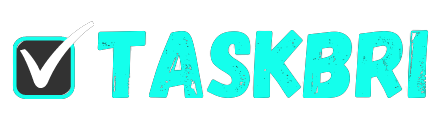
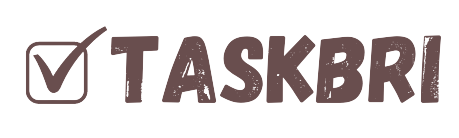
Color scheme of entire app is changed

diff --git a/screens/TaskListScreen.tsx b/screens/TaskListScreen.tsx
@@ -176,11 +176,15 @@ export default function TaskListScreen() {
 
   return (
     
-    <View style={styles.container}>
+    <View style={[styles.container,{
+      opacity: modalVisible || addUserModal ? 0.4 : 1
+    }]}>
       {/* title of the project */}
       
       {loading && <ActivityIndicator size="large" color={Colors[colorScheme].tint} style={{padding: 50}}/>}
-      <Text style={styles.title}>{title}</Text>
+      <Text style={[styles.title,{
+        color: Colors[colorScheme].text
+      }]}>{title}</Text>
 
       {/* collaborators avatars */}
       { users.length>1 ?
@@ -195,7 +199,7 @@ export default function TaskListScreen() {
           ListHeaderComponent={
             <Pressable 
               style={[styles.peopleIcon,{
-                backgroundColor: Colors[colorScheme].seperator,
+                backgroundColor: Colors[colorScheme].background,
                 borderColor: Colors[colorScheme].tint
             }]}
               onPress={resetAddUserModal}
@@ -210,7 +214,7 @@ export default function TaskListScreen() {
                 {/* number of users */}
                 <Text  
                   style={[styles.numberOfUsersText,{
-                    color: Colors[colorScheme].seperator,
+                    color: Colors[colorScheme].background,
                       }]}
                 >
                   {users.length}
@@ -227,7 +231,7 @@ export default function TaskListScreen() {
       (
         <Pressable 
           style={[styles.peopleIcon,{
-            backgroundColor: Colors[colorScheme].seperator,
+            backgroundColor: Colors[colorScheme].background,
             borderColor: Colors[colorScheme].tint
             }]}
           onPress={resetAddUserModal}

diff --git a/components/UIElements/UIAvatar.tsx b/components/UIElements/UIAvatar.tsx
@@ -93,7 +93,10 @@ const UIAvatar = (props: UIAvatarProps) => {
           transparent
           visible={modalVisible}
         >
-          <View style={styles.modal}>
+          <View style={[styles.modal,{
+            backgroundColor: Colors[colorScheme].lightTint,
+            borderColor: Colors[colorScheme].tint
+          }]}>
             <Pressable 
               style={styles.close}
               onPress={()=>setModalVisible(false)}  
@@ -118,7 +121,9 @@ const UIAvatar = (props: UIAvatarProps) => {
               />
 
               {/* user name */}
-              <Text style={styles.userName}>
+              <Text style={[styles.userName,{
+                color: Colors[colorScheme].text
+              }]}>
                 {userName}
               </Text>
 
@@ -172,7 +177,7 @@ const styles = StyleSheet.create({
         height: Platform.OS === "web" ? "40%" : "35%",
         left: Platform.OS === "web" ? "40%" : 80,
         borderRadius: 10,
-        backgroundColor: "#212121",
+        borderWidth: 2,
         padding: 10,
         flex: 1,
         
@@ -199,7 +204,6 @@ const styles = StyleSheet.create({
       },
     userName:{
         fontSize: 20,
-        color: "#fff",
         fontWeight: "bold",
         marginTop: 20,
         width: "100%",
@@ -207,7 +211,6 @@ const styles = StyleSheet.create({
       },
     userEmail:{
         fontSize: 17,
-        color: "#fff",
         fontWeight: "400",
         marginTop: 10,
         width: "100%",

diff --git a/components/UIElements/UIButton.tsx b/components/UIElements/UIButton.tsx
@@ -17,7 +17,7 @@ const Button = (props: UIButtonProps) => {
         // styles applies according to solid or outline button type
         <Pressable 
             style={[styles.buttonContainer,{
-                backgroundColor: props.type === "solid" ? Colors[colorScheme].tint : "",
+                backgroundColor: props.type === "solid" ? Colors[colorScheme].tint : Colors[colorScheme].background,
                 borderWidth: props.type === "solid" ? 0 : 1,
                 borderColor: Colors[colorScheme].tint
             }]} 
@@ -25,8 +25,11 @@ const Button = (props: UIButtonProps) => {
         >
             <Text 
                 style={[styles.buttonName,{
-                    color: props.type === "solid" ? "#212121" : Colors[colorScheme].tint
-                }]}>{props.title}</Text>
+                    color: props.type === "solid" ? Colors[colorScheme].background : Colors[colorScheme].tint
+                }]}
+            >
+                {props.title}
+            </Text>
         </Pressable>
     )
 }

diff --git a/components/UIElements/UIPrompt.tsx b/components/UIElements/UIPrompt.tsx
@@ -20,7 +20,10 @@ const UIPrompt = (props: UIPromptProps ) => {
     //const [modalVisible, setModalVisible] = useState(false);
 
     return (
-        <View style={styles.modal}>
+        <View style={[styles.modal,{
+            backgroundColor: Colors[colorScheme].background,
+            borderColor: Colors[colorScheme].tint
+        }]}>
             {/* close modal */}
             <Pressable 
                 style={styles.close}
@@ -63,8 +66,8 @@ const styles = StyleSheet.create({
         height: 230,
         left: Platform.OS === "web" ? "35%" : 20,
         borderRadius: 10,
-        backgroundColor: "#212121",
-        flex: 1
+        flex: 1,
+        borderWidth: 2
        },
       close:{
         marginRight: 30,

diff --git a/navigation/index.tsx b/navigation/index.tsx
@@ -64,9 +64,9 @@ function RootNavigator() {
 
   return (
     <Stack.Navigator screenOptions={{
-      headerTintColor: Colors[colorScheme].tint,
+      headerTintColor: Colors[colorScheme].background,
       headerStyle:{
-        backgroundColor: "#212121"
+        backgroundColor: Colors[colorScheme].tint
         
       }
     }}>
@@ -83,7 +83,7 @@ function RootNavigator() {
         headerBackTitleVisible: false,
         headerRight:()=>(
           <Pressable onPress={signOut}>
-            <MaterialCommunityIcons name="logout" size={24} color={Colors[colorScheme].tint} />
+            <MaterialCommunityIcons name="logout" size={24} color={Colors[colorScheme].background} />
           </Pressable>
         )
       }}/>

diff --git a/screens/SignInScreen.tsx b/screens/SignInScreen.tsx
@@ -82,7 +82,9 @@ const SignInScreen = () => {
     }
 
     return (
-        <View style={styles.container}>
+        <View style={[styles.container,{
+            backgroundColor: Colors[colorScheme].background
+        }]}>
             {/* TaskBri logo */}
             <Image
                 style={styles.logo}
@@ -121,11 +123,11 @@ const styles = StyleSheet.create({
     container:{
         flex: 1,
         alignItems: "center",
-        justifyContent: "center"
+        justifyContent: "center",
     },
     logo:{
         width: "70%",
-        height: "10%",
+        height: "12%",
         marginVertical: 20
     },
     createNewAccountText:{

diff --git a/components/UIElements/UITextInput.tsx b/components/UIElements/UITextInput.tsx
@@ -19,7 +19,9 @@ const UITextInput = (props: UITextInputProps) => {
             borderBottomColor: Colors[colorScheme].tint
         }]}>
             <TextInput 
-                style={styles.input}
+                style={[styles.input,{
+                    color: Colors[colorScheme].text
+                }]}
                 placeholder={props.placeholder}
                 placeholderTextColor="grey"
                 secureTextEntry={props.secure}
@@ -44,7 +46,6 @@ const styles = StyleSheet.create({
     },
     input:{
         padding: 10,
-        color: "white",
         fontSize: 17,
         width: "100%",
         

diff --git a/constants/Colors.ts b/constants/Colors.ts
@@ -1,17 +1,19 @@
-const tintColorLight = '#2f95dc';
-const tintColorDark = '#14FFEC';
+const tintColorLight = '#694E4E';
+const tintColorDark = '#694E4E';
 
 export default {
   light: {
     text: '#000',
     background: '#fff',
     tint: tintColorLight,
-    seperator: "#323232"
+    seperator: "#323232",
+    lightTint: "#F3C5C5"
   },
   dark: {
-    text: '#fff',
-    background: '#000',
+    text: '#000',
+    background: '#fff',
     tint: tintColorDark,
-    seperator: "#323232"
+    seperator: "#323232",
+    lightTint: "#F3C5C5"
   },
 };

diff --git a/components/ProjectItem.tsx b/components/ProjectItem.tsx
@@ -106,7 +106,7 @@ const ProjectItem = (props: ProjectItemProps) => {
                 onPress={goToTaskLists}
                 onLongPress={deleteThisProject}
             >
-                <Ionicons name="md-document-outline" size={24} color="#212121" />
+                <Ionicons name="md-document-outline" size={24} color={Colors[colorScheme].background} />
             </Pressable>
 
             {/* project content */}

diff --git a/screens/SignUpScreen.tsx b/screens/SignUpScreen.tsx
@@ -83,7 +83,9 @@ const SignUpScreen = () => {
     }
 
     return (
-        <View style={styles.container}>
+        <View style={[styles.container,{
+            backgroundColor: Colors[colorScheme].background
+        }]}>
             <UITextInput 
                 placeholder="Name" 
                 secure={false} 

diff --git a/screens/ProjectScreen.tsx b/screens/ProjectScreen.tsx
@@ -126,9 +126,9 @@ export default function ProjectScreen() {
 const styles = StyleSheet.create({
   container: {
     flex: 1,
-    width: Platform.OS === "web" ? "70%" : "100%",
+    width: "100%",
     alignSelf: "center",
-    //padding: 5,
+    backgroundColor: "#fff"
     
   },
  

diff --git a/components/UIElements/UIFab.tsx b/components/UIElements/UIFab.tsx
@@ -17,7 +17,7 @@ const UIFab = (props: UIFabProps ) => {
         }]}
         onPress={props.onPress}
       >
-        <Entypo name="plus" size={28} color="#212121" />
+        <Entypo name="plus" size={28} color={Colors[colorScheme].background}/>
       </Pressable>
     )
 }
